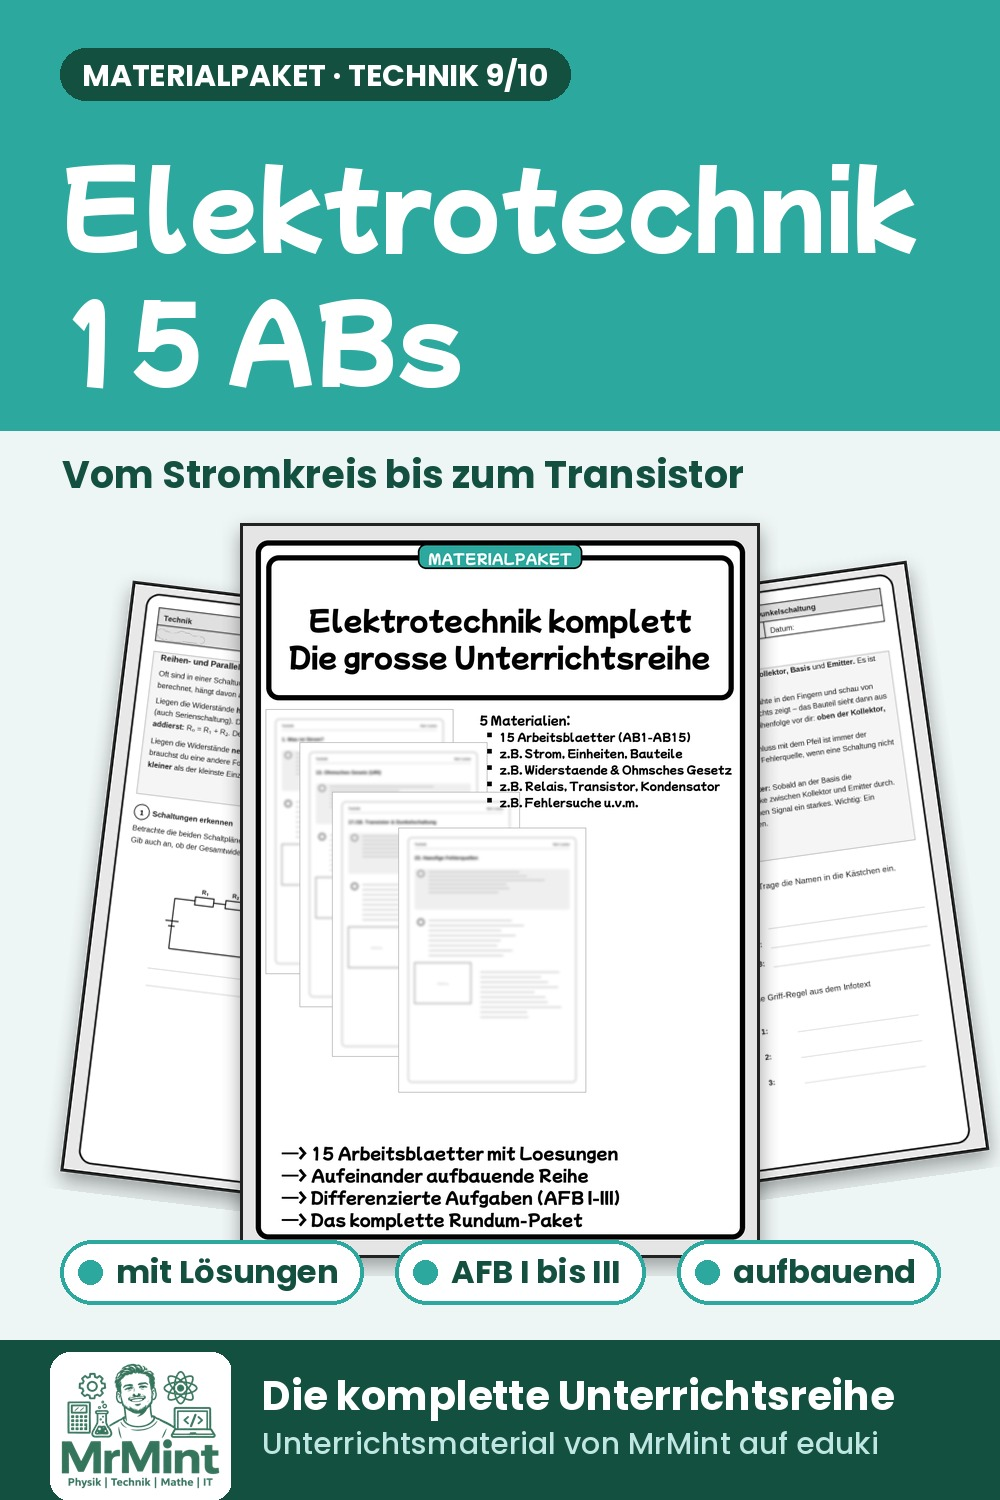
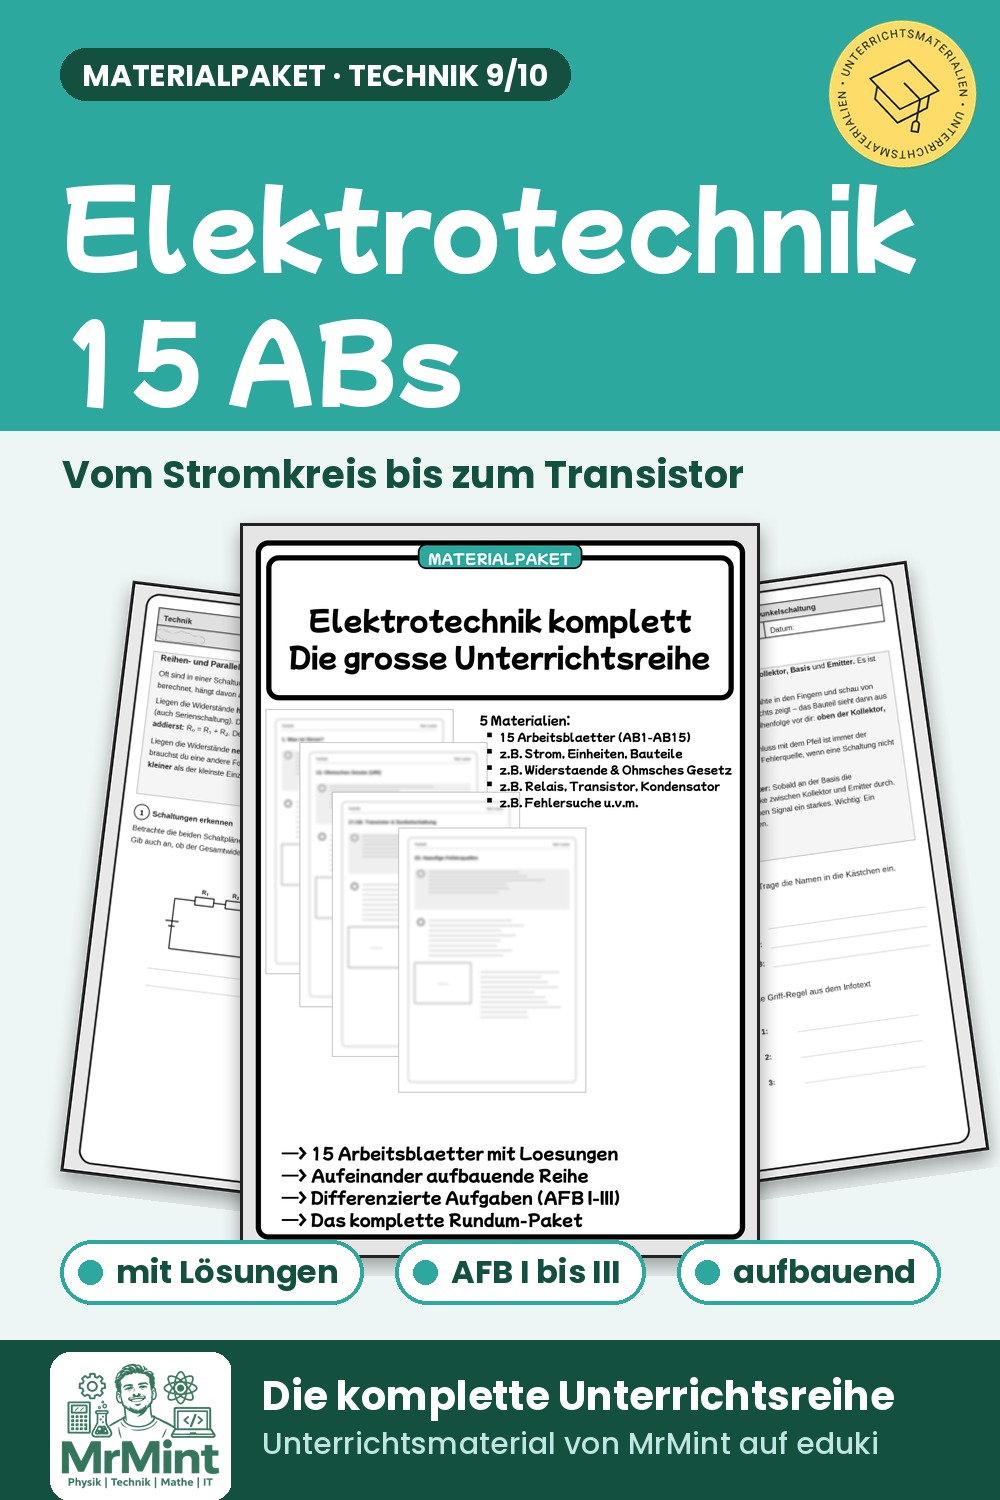
Eduki-Sticker in Pin-Generator, Pakete und Finsternis mit Sticker neu
Claude-Session: https://claude.ai/code/session_019DAG31Sbj9JmMKwxfkv61Q

Changed region(s): [[0.062, 0.0, 0.992, 0.276]]

diff --git a/tools/pin_lib.py b/tools/pin_lib.py
@@ -97,7 +97,23 @@ def footer(im, d, line1, line2="Unterrichtsmaterial von MrMint auf eduki"):
     d.text((262, 1422), line2, font=pop("Medium", 30), fill=MINT)
 
 
+STICKER = "material"  # eduki-Sticker: material | neu | tipp | eduki | None (ausschalten)
+STICKER_DIR = os.path.join(HERE, "sticker")
+
+
+def add_sticker(im, kind, size=150, angle=-10):
+    """Offizieller eduki-Sticker, max. 1 pro Pin, oben rechts am Rand des Kopfbands."""
+    if not kind:
+        return im
+    s = Image.open(os.path.join(STICKER_DIR, kind + ".png")).convert("RGBA")
+    s = s.resize((size, size), Image.LANCZOS).rotate(angle, resample=Image.BICUBIC, expand=True)
+    im = im.convert("RGBA")
+    im.paste(s, (W - s.width - 10, 8), s)
+    return im
+
+
 def save(im, out):
+    im = add_sticker(im, STICKER)
     im.convert("RGB").save(out, quality=92)
     return out
 
@@ -106,13 +122,13 @@ def mockup(pdf, pages, fach, titel, untertitel, fakten, fuss, out):
     im = Image.new("RGBA", (W, H), BG)
     d = ImageDraw.Draw(im)
     tf = fit(d, titel, MOCHIY, W - 120, 120)
-    tb = d.multiline_textbbox((60, 130), titel, font=tf, spacing=10)
+    tb = d.multiline_textbbox((60, 150), titel, font=tf, spacing=10)
     while tb[3] > 420 and tf.size > 70:
         tf = F(MOCHIY, tf.size - 4)
-        tb = d.multiline_textbbox((60, 130), titel, font=tf, spacing=10)
+        tb = d.multiline_textbbox((60, 150), titel, font=tf, spacing=10)
     d.rectangle([0, 0, W, 430], fill=PETROL)
     label(d, fach)
-    d.multiline_text((60, 130), titel, font=tf, fill=WHITE, spacing=10)
+    d.multiline_text((60, 150), titel, font=tf, fill=WHITE, spacing=10)
     d.text((62, 448), untertitel, font=fit(d, untertitel, POP.format("Bold"), W - 124, 38, 28), fill=DARK)
     for pno, a, (x, y) in zip(pages[1:], [8, -7], [(470, 540), (40, 560)]):
         c = card(page_img(pdf, pno, 420)).rotate(a, expand=True, resample=Image.BICUBIC)
@@ -160,13 +176,13 @@ def einblick(pdf, pages, beschriftung, fach, titel, untertitel, fakten, fuss, ou
     im = Image.new("RGBA", (W, H), BG)
     d = ImageDraw.Draw(im)
     tf = fit(d, titel, MOCHIY, W - 120, 110)
-    tb = d.multiline_textbbox((60, 130), titel, font=tf, spacing=10)
+    tb = d.multiline_textbbox((60, 150), titel, font=tf, spacing=10)
     while tb[3] > 420 and tf.size > 70:
         tf = F(MOCHIY, tf.size - 4)
-        tb = d.multiline_textbbox((60, 130), titel, font=tf, spacing=10)
+        tb = d.multiline_textbbox((60, 150), titel, font=tf, spacing=10)
     d.rectangle([0, 0, W, 430], fill=PETROL)
     label(d, fach)
-    d.multiline_text((60, 130), titel, font=tf, fill=WHITE, spacing=10)
+    d.multiline_text((60, 150), titel, font=tf, fill=WHITE, spacing=10)
     d.text((62, 448), untertitel, font=fit(d, untertitel, POP.format("Bold"), W - 124, 38, 28), fill=DARK)
     pw = 280
     xs = [36, 356, 676]
